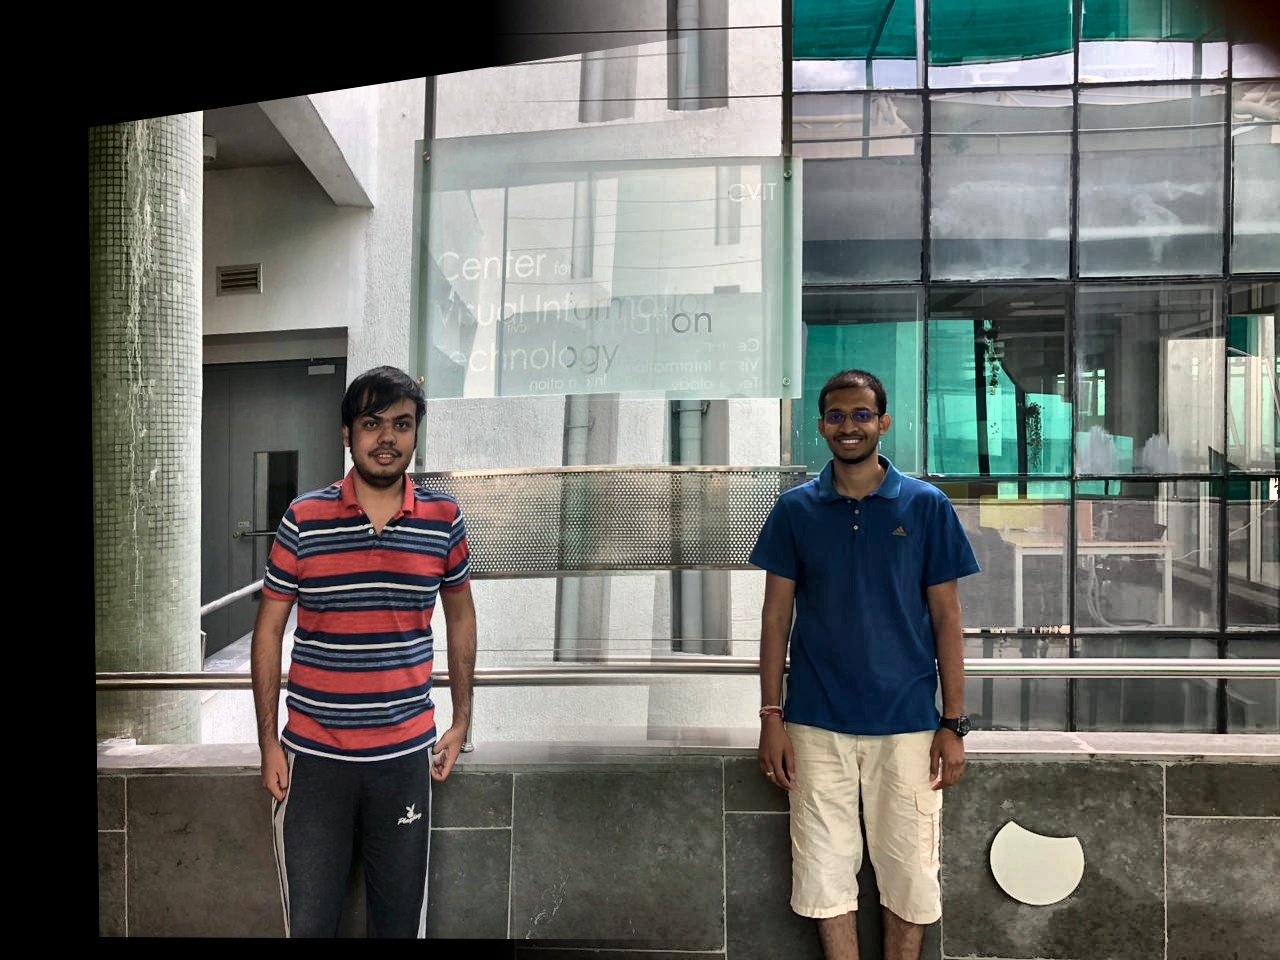
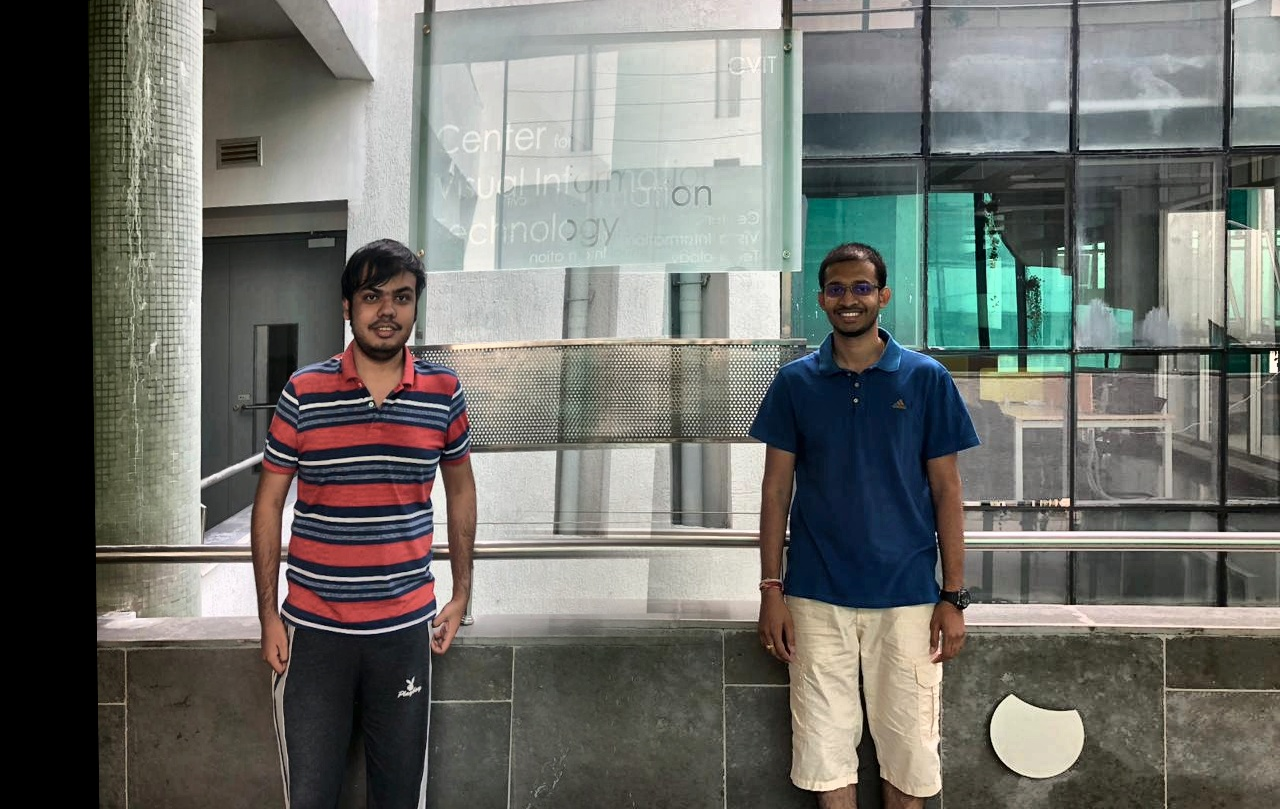
Added Crop function

diff --git a/main.py b/main.py
@@ -6,8 +6,8 @@ from lib.util import *
 #check
 
 n_keypoints = 10000
-Image_1 = cv2.imread("dataset/im10_1.jpeg")
-Image_2 = cv2.imread("dataset/im10_2.jpeg")
+Image_1 = cv2.imread("dataset/im9_1.jpeg")
+Image_2 = cv2.imread("dataset/im9_2.jpeg")
 
 
 #Image_1 = cv2.imread("dataset/im1_1.jpeg")
@@ -61,9 +61,12 @@ a,b = new_points[0]
 c,d = new_points[-1]
 body_1_homographed = [(a,b,c,d)]
 op_image = alpha_blend(homography_warped_1,Image_2,body_1_homographed,body_2)
-cv2.imwrite("trial_outputs/im10_op.jpg", op_image)
+op_image = crop_image(op_image, homography_matrix)
+cv2.imwrite("trial_outputs/im9_op.jpg", op_image)
+'''
 body_1_homographed = [(a,b,c,d,w,h)]
 op_image = grabcut(homography_warped_1,Image_2,body_1_homographed,body_2)
-cv2.imwrite("trial_outputs/im1_op_grabcut.jpg", op_image)
+cv2.imwrite("trial_outputs/im9_op_grabcut.jpg", op_image)
+'''
 
 

diff --git a/lib/util.py b/lib/util.py
@@ -205,4 +205,14 @@ def alpha_blend(img1, img2, body1, body2):
     op[:,col_end:,:] = img2[:,col_end:,:]
     return op
 
+def crop_image(img, H):
+	rows, cols, channels = img.shape
+	pts = np.float32([[0, 0], [cols, 0], [cols, rows], [0, rows]]).reshape(-1,
+		                                                           1, 2)
+	warp_points = cv2.perspectiveTransform(pts, H)
+	top_row = int(max(max(warp_points[0][0][1], warp_points[1][0][1]), 0))
+	bottom_row = int(min(min(warp_points[2][0][1], warp_points[3][0][1]), rows))
+
+	return img[top_row:bottom_row, 0:cols]
+
 
